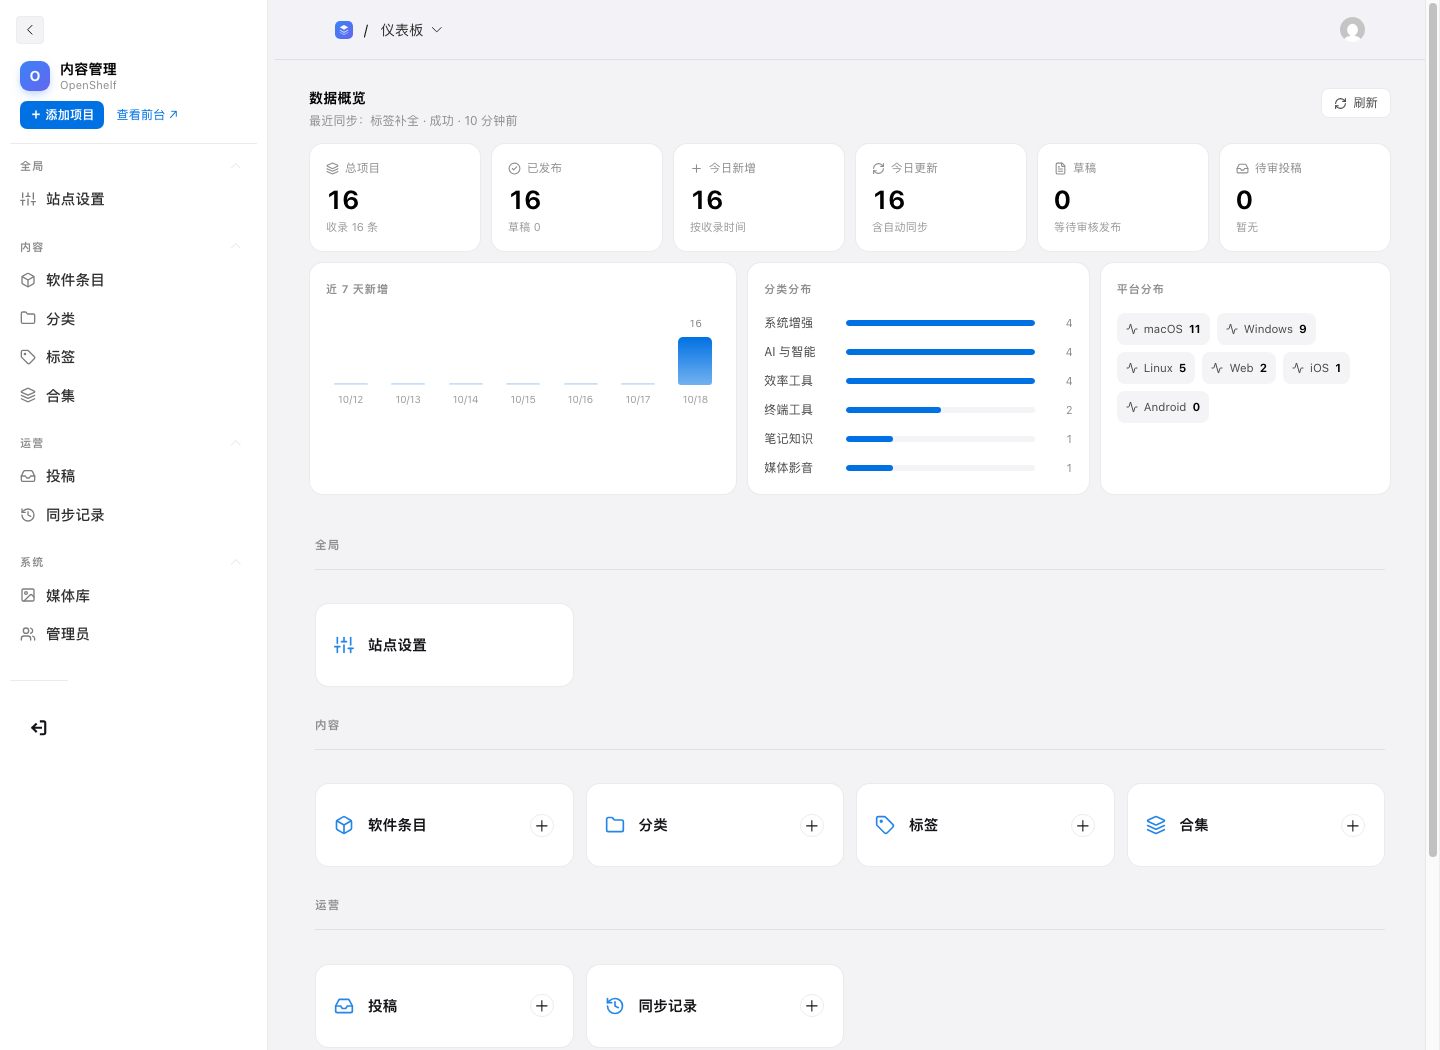
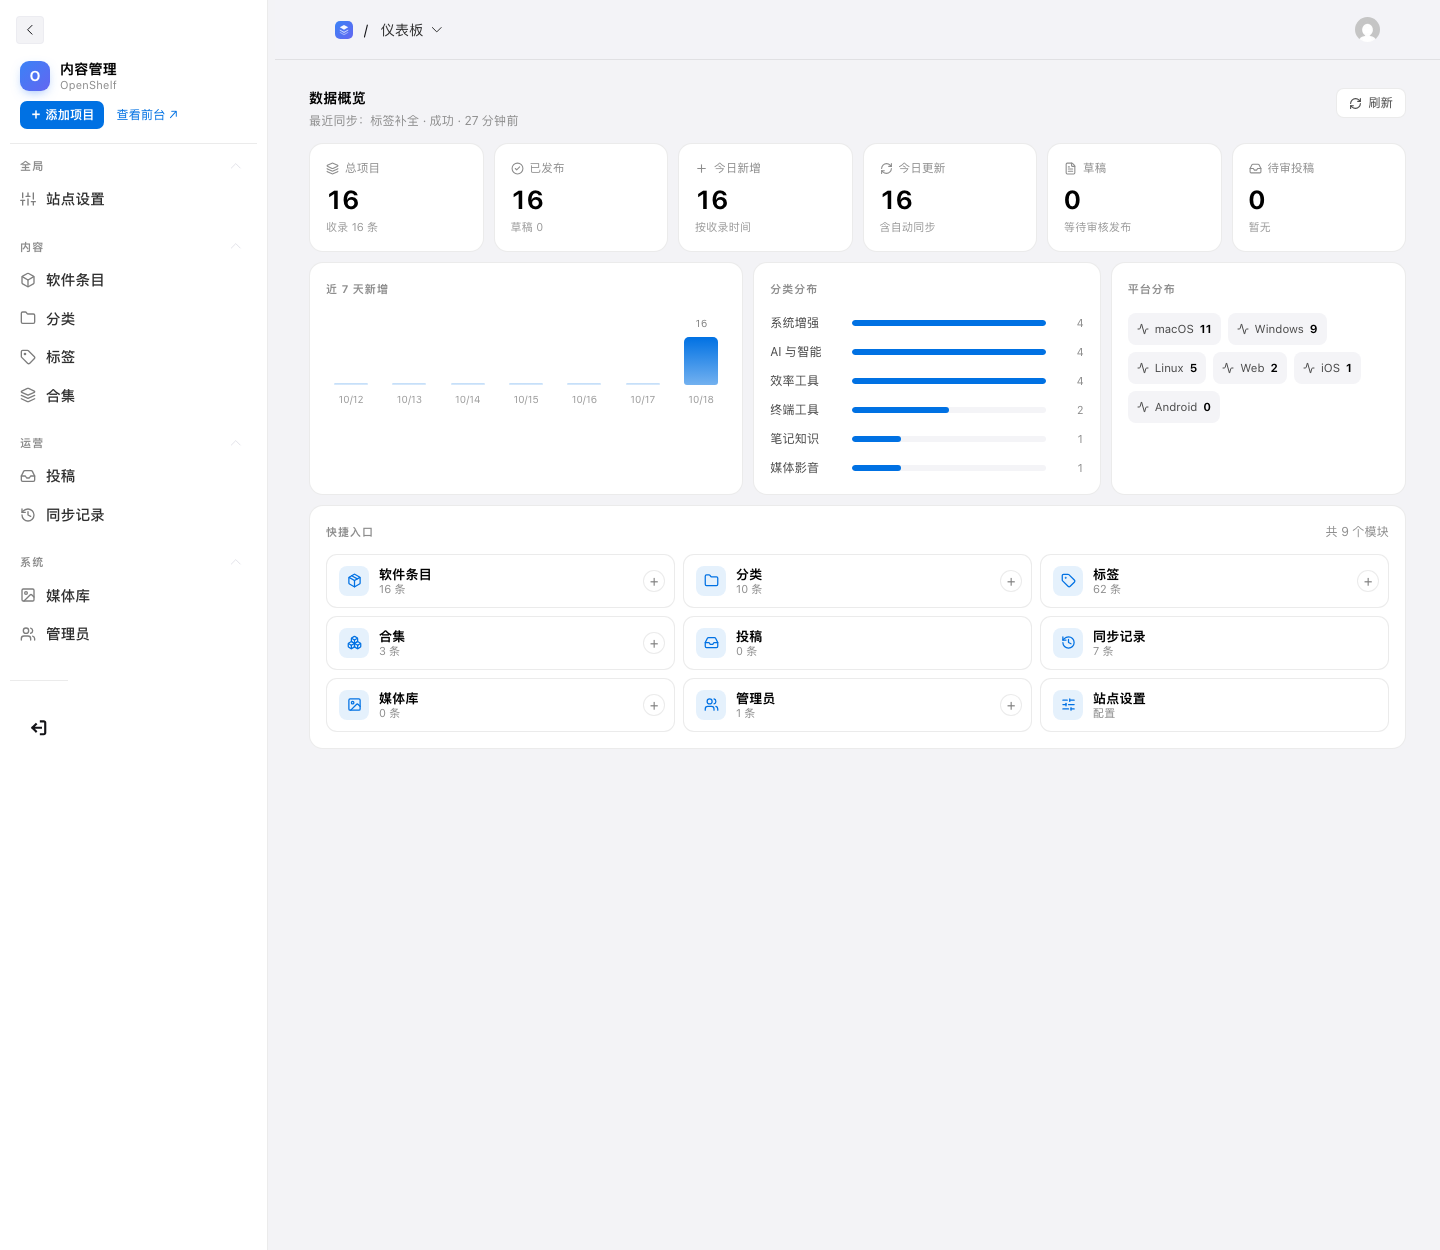
feat: 仪表盘快捷入口合并为单一模块
- 九个集合入口收进一个「快捷入口」面板，3x3 排列
- 每个入口显示条目数量，保留新建按钮
- 隐藏 Payload 默认的四组集合卡片，减少纵向占用

diff --git a/src/components/admin/StatsPanel.tsx b/src/components/admin/StatsPanel.tsx
@@ -2,16 +2,33 @@
 
 import {
   Activity,
+  Boxes,
   CheckCircle2,
   FileText,
+  Folder,
+  History,
+  Image as ImageIcon,
   Inbox,
   Layers,
+  Package,
   Plus,
   RefreshCw,
+  SlidersHorizontal,
+  Tag,
+  Users,
 } from 'lucide-react'
 import React, { useCallback, useEffect, useState } from 'react'
 
 type Stats = {
+  counts: {
+    categories: number
+    tags: number
+    lists: number
+    syncRuns: number
+    media: number
+    users: number
+    submissions: number
+  }
   totals: {
     total: number
     published: number
@@ -110,7 +127,7 @@ export function StatsPanel() {
     )
   }
 
-  const { totals, series, categories, platforms, lastSync } = data
+  const { totals, counts, series, categories, platforms, lastSync } = data
   const maxSeries = Math.max(1, ...series.map((item) => item.count))
   const maxCategory = Math.max(1, ...categories.map((item) => item.count))
 
@@ -121,6 +138,72 @@ export function StatsPanel() {
     { label: '今日更新', value: totals.todayUpdated, icon: RefreshCw, hint: '含自动同步' },
     { label: '草稿', value: totals.drafts, icon: FileText, hint: '等待审核发布' },
     { label: '待审投稿', value: totals.pendingSubmissions, icon: Inbox, hint: totals.pendingSubmissions ? '需要处理' : '暂无' },
+  ]
+
+  const quickLinks = [
+    {
+      name: '软件条目',
+      href: '/admin/collections/items',
+      create: '/admin/collections/items/create',
+      count: totals.total,
+      icon: Package,
+    },
+    {
+      name: '分类',
+      href: '/admin/collections/categories',
+      create: '/admin/collections/categories/create',
+      count: counts.categories,
+      icon: Folder,
+    },
+    {
+      name: '标签',
+      href: '/admin/collections/tags',
+      create: '/admin/collections/tags/create',
+      count: counts.tags,
+      icon: Tag,
+    },
+    {
+      name: '合集',
+      href: '/admin/collections/curated-lists',
+      create: '/admin/collections/curated-lists/create',
+      count: counts.lists,
+      icon: Boxes,
+    },
+    {
+      name: '投稿',
+      href: '/admin/collections/submissions',
+      create: null,
+      count: counts.submissions,
+      icon: Inbox,
+    },
+    {
+      name: '同步记录',
+      href: '/admin/collections/sync-runs',
+      create: null,
+      count: counts.syncRuns,
+      icon: History,
+    },
+    {
+      name: '媒体库',
+      href: '/admin/collections/media',
+      create: '/admin/collections/media/create',
+      count: counts.media,
+      icon: ImageIcon,
+    },
+    {
+      name: '管理员',
+      href: '/admin/collections/users',
+      create: '/admin/collections/users/create',
+      count: counts.users,
+      icon: Users,
+    },
+    {
+      name: '站点设置',
+      href: '/admin/globals/settings',
+      create: null,
+      count: null,
+      icon: SlidersHorizontal,
+    },
   ]
 
   return (
@@ -218,6 +301,38 @@ export function StatsPanel() {
               </span>
             ))}
           </div>
+        </div>
+      </div>
+
+      <div className="os-quick">
+        <div className="os-quick__head">
+          <div className="os-panel__title">快捷入口</div>
+          <span className="os-stats__muted">共 9 个模块</span>
+        </div>
+        <div className="os-quick__grid">
+          {quickLinks.map((item) => {
+            const Icon = item.icon
+            return (
+              <div className="os-quick__tile" key={item.name}>
+                <a className="os-quick__main" href={item.href}>
+                  <span className="os-quick__icon">
+                    <Icon size={15} />
+                  </span>
+                  <span className="os-quick__text">
+                    <span className="os-quick__name">{item.name}</span>
+                    <span className="os-quick__count">
+                      {item.count === null ? '配置' : `${formatNumber(item.count)} 条`}
+                    </span>
+                  </span>
+                </a>
+                {item.create ? (
+                  <a className="os-quick__add" href={item.create} aria-label={`新建${item.name}`}>
+                    +
+                  </a>
+                ) : null}
+              </div>
+            )
+          })}
         </div>
       </div>
     </div>

diff --git a/src/app/(payload)/custom.css b/src/app/(payload)/custom.css
@@ -750,3 +750,121 @@ html[data-theme='dark'] .os-stats__alert {
   font-weight: 650;
   color: var(--theme-elevation-1000);
 }
+
+/* ---------- 快捷入口 ---------- */
+.os-quick {
+  margin-top: 10px;
+  padding: 16px;
+  border: 1px solid var(--theme-border-color);
+  border-radius: 14px;
+  background: var(--theme-elevation-0);
+}
+
+.os-quick__head {
+  display: flex;
+  align-items: center;
+  justify-content: space-between;
+  margin-bottom: 12px;
+}
+
+.os-quick__head .os-panel__title {
+  margin-bottom: 0;
+}
+
+.os-quick__grid {
+  display: grid;
+  grid-template-columns: repeat(3, minmax(0, 1fr));
+  gap: 8px;
+}
+
+@media (max-width: 1000px) {
+  .os-quick__grid {
+    grid-template-columns: repeat(2, minmax(0, 1fr));
+  }
+}
+
+@media (max-width: 600px) {
+  .os-quick__grid {
+    grid-template-columns: 1fr;
+  }
+}
+
+.os-quick__tile {
+  position: relative;
+  border: 1px solid var(--theme-border-color);
+  border-radius: 11px;
+  background: var(--theme-elevation-50);
+  transition: transform 0.15s ease, border-color 0.15s ease, box-shadow 0.15s ease;
+}
+
+.os-quick__tile:hover {
+  transform: translateY(-1px);
+  border-color: color-mix(in srgb, var(--os-accent) 40%, var(--theme-border-color));
+  box-shadow: 0 6px 18px -12px rgba(0, 0, 0, 0.4);
+}
+
+.os-quick__main {
+  display: flex;
+  align-items: center;
+  gap: 10px;
+  padding: 11px 40px 11px 12px;
+  color: inherit;
+  text-decoration: none;
+}
+
+.os-quick__icon {
+  width: 30px;
+  height: 30px;
+  flex: none;
+  display: grid;
+  place-items: center;
+  border-radius: 8px;
+  background: var(--os-accent-soft);
+  color: var(--os-accent);
+}
+
+.os-quick__text {
+  display: flex;
+  flex-direction: column;
+  min-width: 0;
+  line-height: 1.25;
+}
+
+.os-quick__name {
+  font-size: 13px;
+  font-weight: 600;
+  color: var(--theme-elevation-1000);
+}
+
+.os-quick__count {
+  font-size: 11px;
+  color: var(--theme-elevation-450);
+}
+
+.os-quick__add {
+  position: absolute;
+  right: 9px;
+  top: 50%;
+  transform: translateY(-50%);
+  width: 22px;
+  height: 22px;
+  display: grid;
+  place-items: center;
+  border: 1px solid var(--theme-border-color);
+  border-radius: 50%;
+  background: var(--theme-elevation-0);
+  color: var(--theme-elevation-500);
+  font-size: 14px;
+  line-height: 1;
+  text-decoration: none;
+}
+
+.os-quick__add:hover {
+  border-color: var(--os-accent);
+  color: var(--os-accent);
+}
+
+/* 默认的集合入口由「快捷入口」统一承载 */
+.dashboard .collections {
+  display: none;
+}

diff --git a/src/app/api/admin/stats/route.ts b/src/app/api/admin/stats/route.ts
@@ -115,6 +115,16 @@ export async function GET(request: NextRequest) {
     })),
   )
 
+  const [tagsCount, listsCount, runsCount, mediaCount, usersCount, submissionsCount] =
+    await Promise.all([
+      payload.count({ collection: 'tags', overrideAccess: true }),
+      payload.count({ collection: 'curated-lists', overrideAccess: true }),
+      payload.count({ collection: 'sync-runs', overrideAccess: true }),
+      payload.count({ collection: 'media', overrideAccess: true }),
+      payload.count({ collection: 'users', overrideAccess: true }),
+      payload.count({ collection: 'submissions', overrideAccess: true }),
+    ])
+
   const run = lastSync.docs[0] as any
 
   return NextResponse.json({
@@ -127,6 +137,15 @@ export async function GET(request: NextRequest) {
       todayUpdated: todayUpdated.totalDocs,
       pendingSubmissions: pending.totalDocs,
       failedSync: failed.totalDocs,
+    },
+    counts: {
+      categories: categories.docs.length,
+      tags: tagsCount.totalDocs,
+      lists: listsCount.totalDocs,
+      syncRuns: runsCount.totalDocs,
+      media: mediaCount.totalDocs,
+      users: usersCount.totalDocs,
+      submissions: submissionsCount.totalDocs,
     },
     series,
     categories: categoryCounts

diff --git a/README.md b/README.md
@@ -27,6 +27,7 @@
 **后台（Payload CMS）**
 
 - 仪表盘：总项目、已发布、今日新增/更新、草稿、待审投稿、近 7 天趋势、分类与平台分布、最近同步状态
+- 快捷入口合并为一个模块：条目 / 分类 / 标签 / 合集 / 投稿 / 同步记录 / 媒体 / 管理员 / 设置，带数量
 - 软件条目 CRUD，字段分区（内容 / 链接与图片 / GitHub 数据 / SEO + 右侧发布栏）
 - **列表页一键导入**：粘贴 GitHub 地址 → 选择草稿/直接发布 → 自动抓取并生成条目
 - **标签自动生成**：抓取后自动创建并关联标签；没有 Topics 时用类型 / 平台 / 语言兜底
